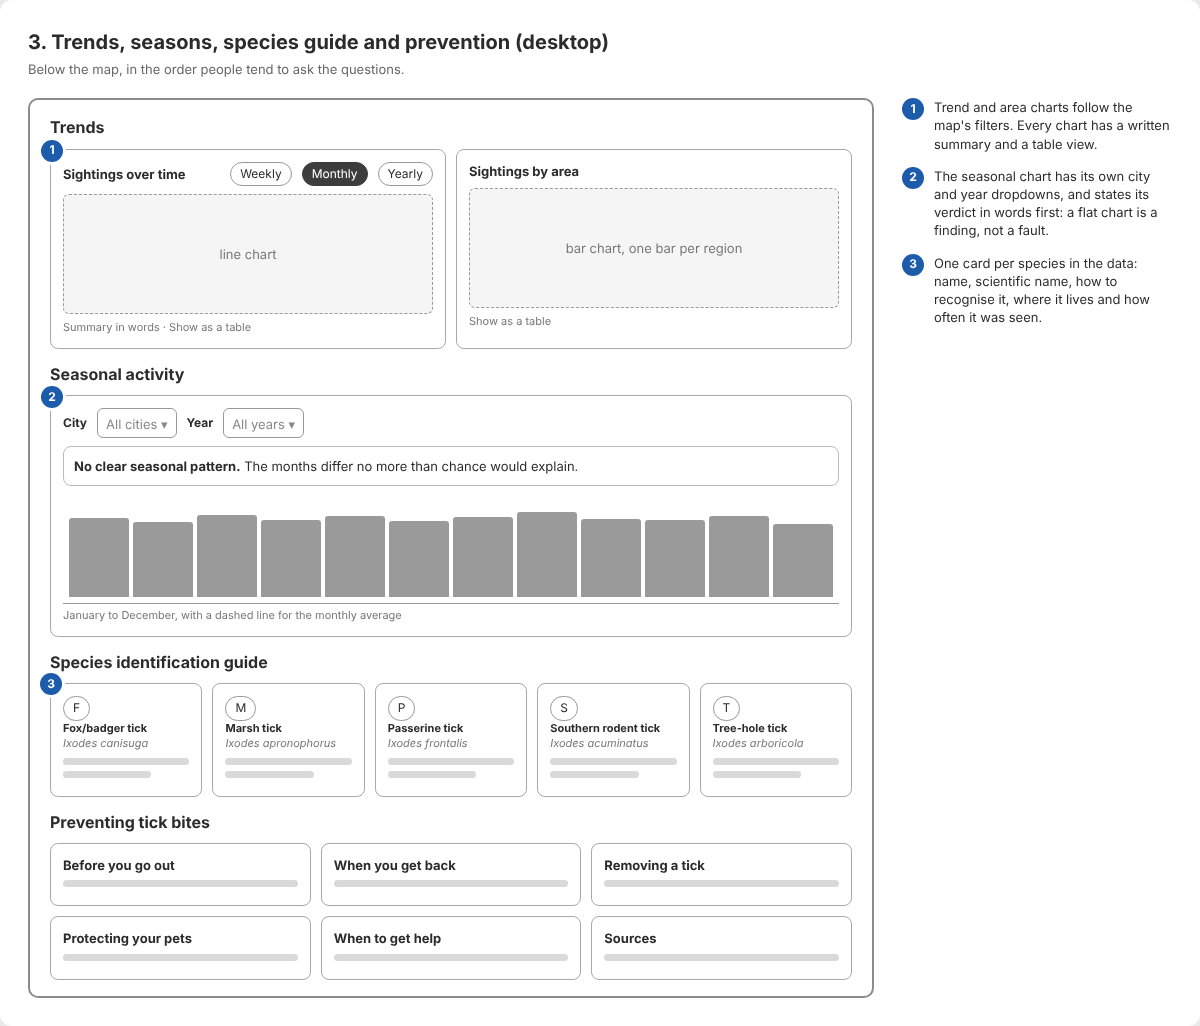
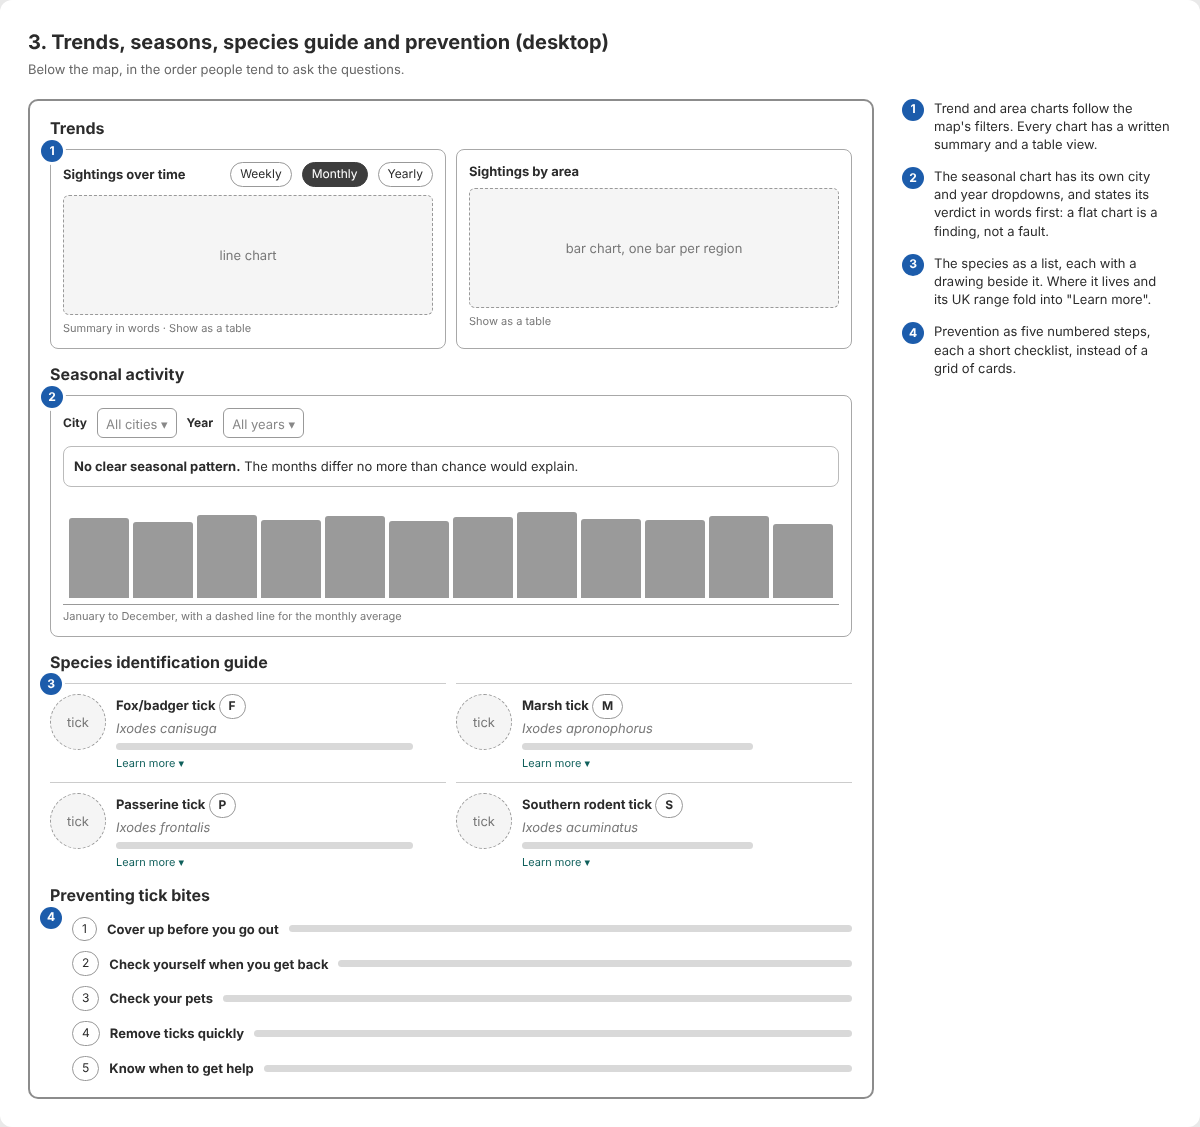
Update the wireframes to the redesigned layout
Board 1 shows the welcome and the line of key numbers beside a drawing
instead of number boxes, board 3 the illustrated species list and the
numbered prevention checklist instead of card grids, and board 5 the
same intro on a phone.

diff --git a/docs/wireframes/wireframes.html b/docs/wireframes/wireframes.html
@@ -398,13 +398,19 @@
               <b>Showing saved data</b>
               <span class="text-warning">(only shown when Elanco is down or still loading)</span>
             </div>
-            <p class="h1">Tick sightings across the UK</p>
-            <div class="line w70"></div>
-            <div class="cols-4">
-              <div class="tile">Sightings<b>1,000</b></div>
-              <div class="tile">Cities<b>14</b></div>
-              <div class="tile">Species<b>5</b></div>
-              <div class="tile">Years covered<b>2012–2024</b></div>
+            <div class="row relative" style="align-items: center; gap: 24px">
+              <span class="callout pin" style="left: -10px; top: -6px">6</span>
+              <div class="grow">
+                <p class="h1">Tick sightings across the UK</p>
+                <div class="line w90"></div>
+                <div class="line w70"></div>
+                <p class="muted small" style="margin-top: 10px">
+                  In the data: 1,000 sightings across 14 cities and 5 species, from 2012 to 2024.
+                </p>
+              </div>
+              <div class="placeholder" style="width: 260px; height: 150px; border-radius: 40px">
+                drawing: a dog outdoors
+              </div>
             </div>
             <p class="h2" style="margin-top: 18px">Map of sightings</p>
             <div class="card relative">
@@ -498,6 +504,13 @@
           <li>
             <span class="callout">5</span>
             <span>A banner explains when data is loading, saved from earlier, or unavailable.</span>
+          </li>
+          <li>
+            <span class="callout">6</span>
+            <span
+              >A short welcome beside a drawing, with the key numbers in one quiet sentence rather
+              than big number boxes.</span
+            >
           </li>
         </ol>
       </div>
@@ -651,69 +664,86 @@
               </p>
             </div>
             <p class="h2" style="margin-top: 14px">Species identification guide</p>
-            <div class="cols-5 relative">
+            <div class="cols-2 relative">
               <span class="callout pin" style="left: -10px; top: -10px">3</span>
-              <div class="card small">
-                <span class="chip">F</span>
-                <p class="h3">Fox/badger tick</p>
-                <p class="italic muted">Ixodes canisuga</p>
-                <div class="line"></div>
-                <div class="line w70"></div>
+              <div
+                class="row"
+                style="align-items: flex-start; border-top: 1px solid #ccc; padding-top: 10px"
+              >
+                <span class="placeholder" style="width: 56px; height: 56px; border-radius: 50%"
+                  >tick</span
+                >
+                <div class="grow">
+                  <p class="h3">Fox/badger tick <span class="chip">F</span></p>
+                  <p class="italic muted">Ixodes canisuga</p>
+                  <div class="line w90"></div>
+                  <p class="small" style="color: #0f5f5b">Learn more ▾</p>
+                </div>
               </div>
-              <div class="card small">
-                <span class="chip">M</span>
-                <p class="h3">Marsh tick</p>
-                <p class="italic muted">Ixodes apronophorus</p>
-                <div class="line"></div>
-                <div class="line w70"></div>
+              <div
+                class="row"
+                style="align-items: flex-start; border-top: 1px solid #ccc; padding-top: 10px"
+              >
+                <span class="placeholder" style="width: 56px; height: 56px; border-radius: 50%"
+                  >tick</span
+                >
+                <div class="grow">
+                  <p class="h3">Marsh tick <span class="chip">M</span></p>
+                  <p class="italic muted">Ixodes apronophorus</p>
+                  <div class="line w70"></div>
+                  <p class="small" style="color: #0f5f5b">Learn more ▾</p>
+                </div>
               </div>
-              <div class="card small">
-                <span class="chip">P</span>
-                <p class="h3">Passerine tick</p>
-                <p class="italic muted">Ixodes frontalis</p>
-                <div class="line"></div>
-                <div class="line w70"></div>
+              <div
+                class="row"
+                style="align-items: flex-start; border-top: 1px solid #ccc; padding-top: 10px"
+              >
+                <span class="placeholder" style="width: 56px; height: 56px; border-radius: 50%"
+                  >tick</span
+                >
+                <div class="grow">
+                  <p class="h3">Passerine tick <span class="chip">P</span></p>
+                  <p class="italic muted">Ixodes frontalis</p>
+                  <div class="line w90"></div>
+                  <p class="small" style="color: #0f5f5b">Learn more ▾</p>
+                </div>
               </div>
-              <div class="card small">
-                <span class="chip">S</span>
-                <p class="h3">Southern rodent tick</p>
-                <p class="italic muted">Ixodes acuminatus</p>
-                <div class="line"></div>
-                <div class="line w70"></div>
-              </div>
-              <div class="card small">
-                <span class="chip">T</span>
-                <p class="h3">Tree-hole tick</p>
-                <p class="italic muted">Ixodes arboricola</p>
-                <div class="line"></div>
-                <div class="line w70"></div>
+              <div
+                class="row"
+                style="align-items: flex-start; border-top: 1px solid #ccc; padding-top: 10px"
+              >
+                <span class="placeholder" style="width: 56px; height: 56px; border-radius: 50%"
+                  >tick</span
+                >
+                <div class="grow">
+                  <p class="h3">Southern rodent tick <span class="chip">S</span></p>
+                  <p class="italic muted">Ixodes acuminatus</p>
+                  <div class="line w70"></div>
+                  <p class="small" style="color: #0f5f5b">Learn more ▾</p>
+                </div>
               </div>
             </div>
             <p class="h2" style="margin-top: 14px">Preventing tick bites</p>
-            <div class="cols-3">
-              <div class="card">
-                <p class="h3">Before you go out</p>
-                <div class="line"></div>
+            <div class="stack relative" style="padding-left: 22px">
+              <span class="callout pin" style="left: -10px; top: -10px">4</span>
+              <div class="row">
+                <span class="chip">1</span><b>Cover up before you go out</b
+                ><span class="grow line"></span>
               </div>
-              <div class="card">
-                <p class="h3">When you get back</p>
-                <div class="line"></div>
+              <div class="row">
+                <span class="chip">2</span><b>Check yourself when you get back</b
+                ><span class="grow line"></span>
               </div>
-              <div class="card">
-                <p class="h3">Removing a tick</p>
-                <div class="line"></div>
+              <div class="row">
+                <span class="chip">3</span><b>Check your pets</b><span class="grow line"></span>
               </div>
-              <div class="card">
-                <p class="h3">Protecting your pets</p>
-                <div class="line"></div>
+              <div class="row">
+                <span class="chip">4</span><b>Remove ticks quickly</b
+                ><span class="grow line"></span>
               </div>
-              <div class="card">
-                <p class="h3">When to get help</p>
-                <div class="line"></div>
-              </div>
-              <div class="card">
-                <p class="h3">Sources</p>
-                <div class="line"></div>
+              <div class="row">
+                <span class="chip">5</span><b>Know when to get help</b
+                ><span class="grow line"></span>
               </div>
             </div>
           </div>
@@ -736,8 +766,15 @@
           <li>
             <span class="callout">3</span>
             <span
-              >One card per species in the data: name, scientific name, how to recognise it, where
-              it lives and how often it was seen.</span
+              >The species as a list, each with a drawing beside it. Where it lives and its UK range
+              fold into "Learn more".</span
+            >
+          </li>
+          <li>
+            <span class="callout">4</span>
+            <span
+              >Prevention as five numbered steps, each a short checklist, instead of a grid of
+              cards.</span
             >
           </li>
         </ol>
@@ -876,12 +913,11 @@
             </div>
             <div class="page stack">
               <p class="h2">Tick sightings across the UK</p>
-              <div class="cols-2">
-                <div class="tile">Sightings<b>1,000</b></div>
-                <div class="tile">Cities<b>14</b></div>
-                <div class="tile">Species<b>5</b></div>
-                <div class="tile">Years<b>2012–24</b></div>
-              </div>
+              <div class="line w90"></div>
+              <p class="muted small">
+                In the data: 1,000 sightings across 14 cities and 5 species.
+              </p>
+              <div class="placeholder" style="height: 110px; border-radius: 30px">drawing</div>
               <span class="btn row"><span class="callout">1</span>Show filters (2 active)</span>
               <div class="map" style="height: 300px">
                 <svg viewBox="0 0 320 545"><use href="#uk-map" /></svg>

diff --git a/docs/wireframes/README.md b/docs/wireframes/README.md
@@ -11,7 +11,7 @@ images below are screenshots of it.
 ## Principles behind the layout
 
 - **Answer the main question first.** The map, which shows where ticks are being seen, is the first
-  thing below the headline numbers. Detail comes on demand, in the city panel.
+  thing below a short welcome. Detail comes on demand, in the city panel.
 - **One column on phones, in the same order.** Nothing is hidden on a small screen; the filters and
   the navigation fold away behind a button instead.
 - **Every visual code has a text equivalent.** Severity is written in words as well as shown in
@@ -28,7 +28,7 @@ images below are screenshots of it.
 
 ## 3. Trends, seasons, species guide and prevention
 
-![The trend and area charts, the seasonal chart with its dropdowns, the species cards and prevention tips](3-insights.png)
+![The trend and area charts, the seasonal chart with its dropdowns, the illustrated species list and the prevention checklist](3-insights.png)
 
 ## 4. Report a sighting: error, warning and success
 
